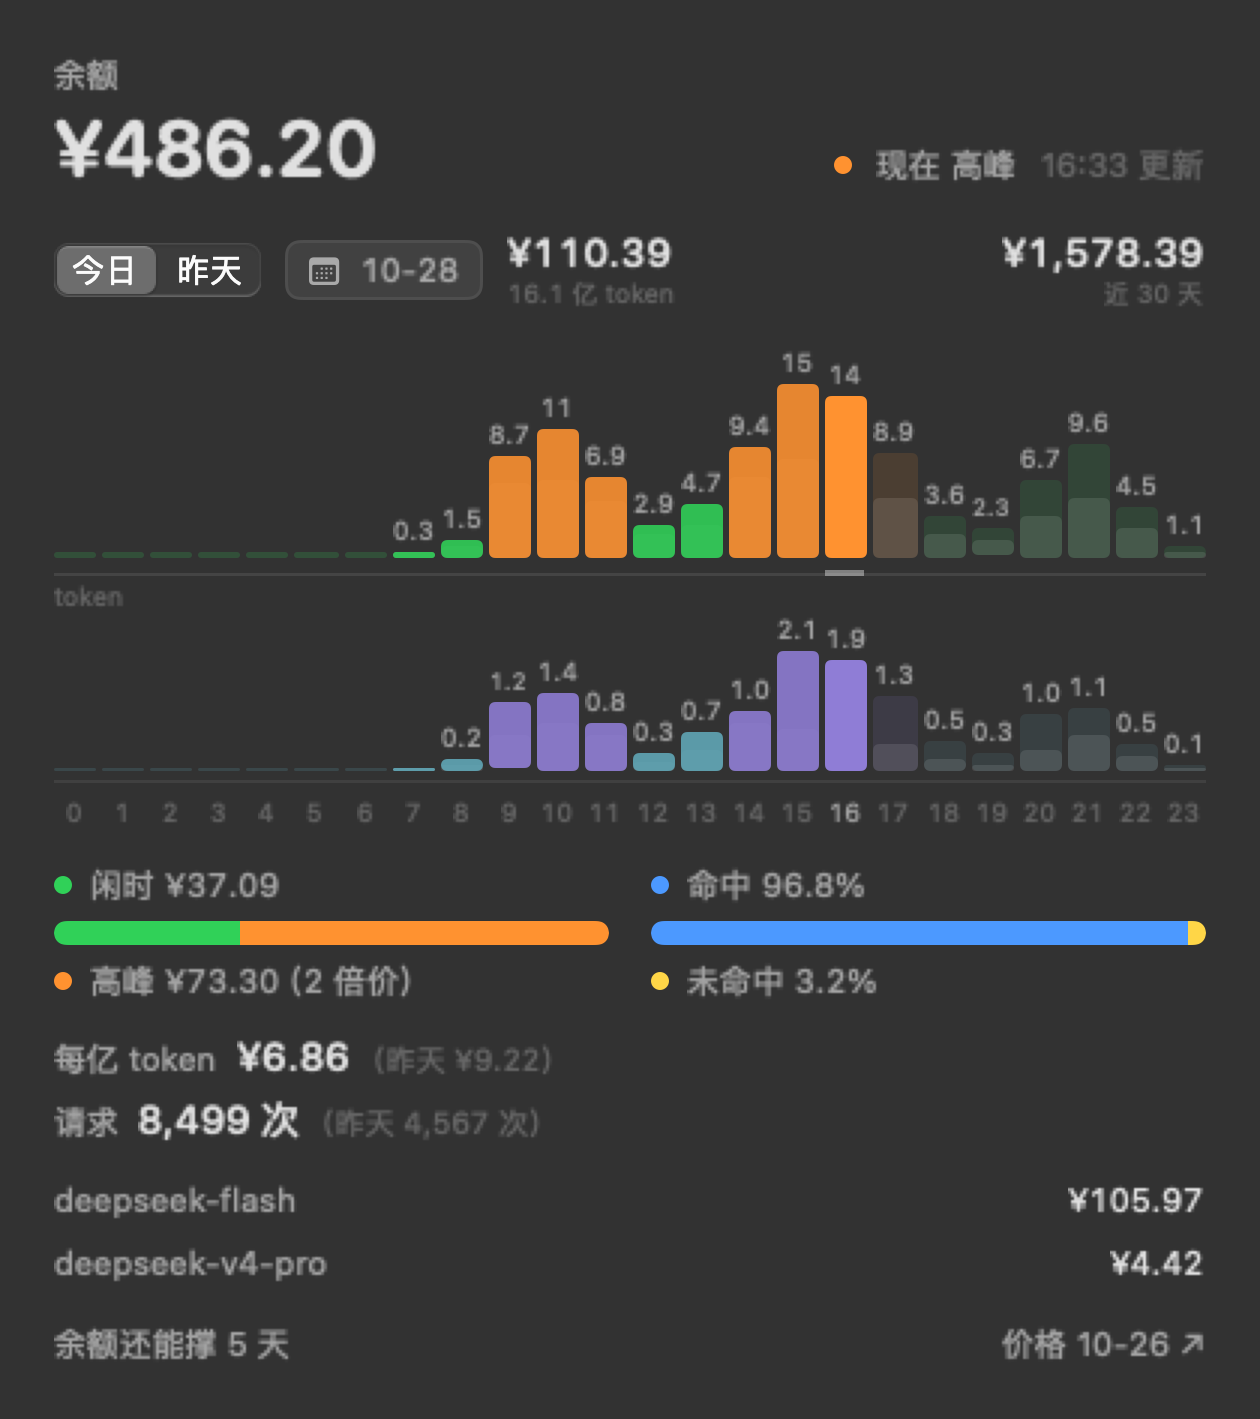
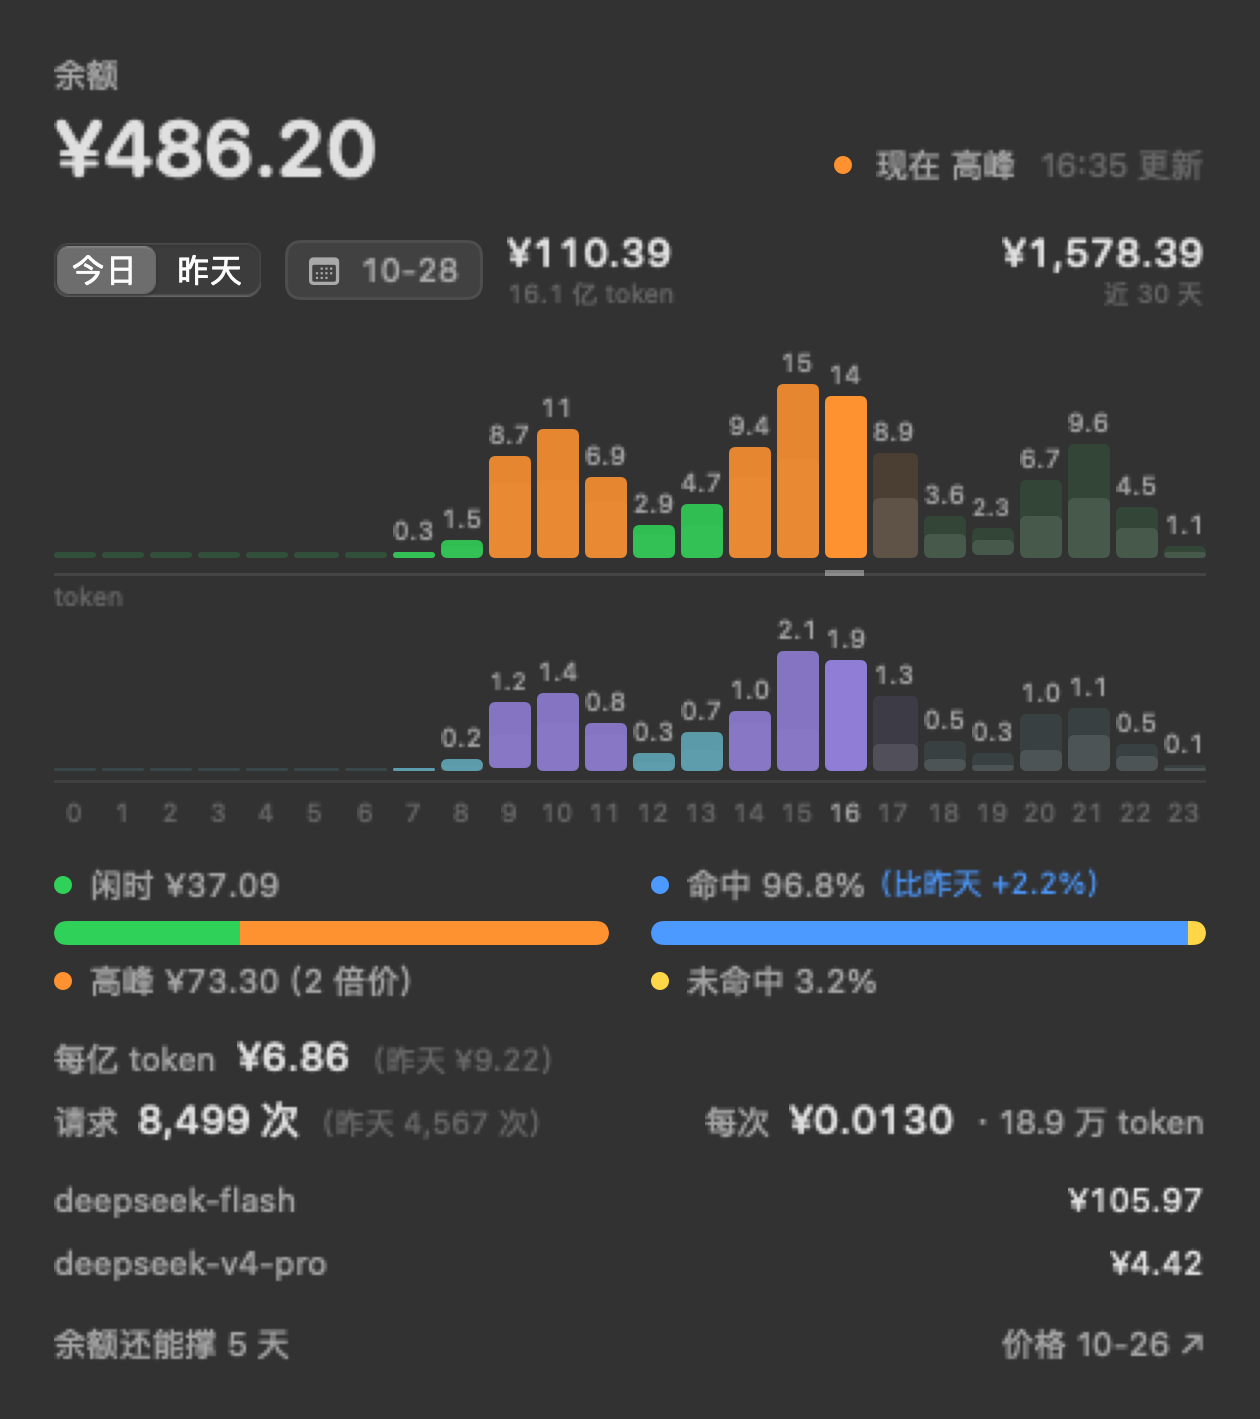
请求那一行补上每次的钱和每次的 token 量：请求数只说明次数，说明不了单价

Changed region(s): [[0.5571, 0.7752, 0.9595, 0.8062], [0.7119, 0.5891, 0.8667, 0.6512]]

diff --git a/Sources/DSMeter/L10n.swift b/Sources/DSMeter/L10n.swift
@@ -30,7 +30,7 @@ enum T {
     case setupTitle, setupBody, loginExpiredBody, setupBalanceOnly, loginStaysLocal
     case vsYesterday, vsPreviousDay, previousDay
     case runway, runwayNoData, priceLine
-    case hourChart, tokenLayer, unitPrice, unitPriceHelp, requestHelp, requests
+    case hourChart, tokenLayer, unitPrice, unitPriceHelp, requestHelp, requests, perRequest
 
     // 菜单
     case menuRefresh, menuSettings, menuLogin, menuUsage, menuPricing, menuQuit, menuAutoStart, statusTooltip
@@ -99,7 +99,8 @@ enum T {
         case .tokenLayer: return "token"
         case .unitPrice: return "每亿 token"
         case .requests: return "请求"
-        case .requestHelp: return "平台记的请求数：一次 API 调用算一次（工具每转一圈算一次，子代理跑的也算）。账单接口只给这个总数，拆不出哪几次是我自己问的。"
+        case .perRequest: return "每次"
+        case .requestHelp: return "平台记的请求数：一次 API 调用算一次（工具每转一圈算一次，子代理跑的也算），账单接口只给这个总数，拆不出哪几次是我自己问的。后面的「每次」= 那天的钱 ÷ 那天的请求数、那天的 token ÷ 那天的请求数。"
         case .unitPriceHelp: return "那天的花费 ÷ 那天的 token 量（命中 + 未命中 + 输出）× 1 亿。高峰时段长、缓存没命中，这个数就高。"
         case .menuRefresh: return "刷新"
         case .menuSettings: return "设置…"
@@ -209,7 +210,8 @@ enum T {
         case .tokenLayer: return "tokens"
         case .unitPrice: return "Per 100M tokens"
         case .requests: return "Requests"
-        case .requestHelp: return "Requests as the platform counts them: one per API call — every tool round and every subagent run. The billing API only gives this total; it cannot split out the calls I made myself."
+        case .perRequest: return "Each"
+        case .requestHelp: return "Requests as the platform counts them: one per API call — every tool round and every subagent run; the billing API only gives this total. “Each” is that day's spend ÷ requests, and that day's tokens ÷ requests."
         case .unitPriceHelp: return "The day's spend ÷ its tokens (cache hit + miss + output) × 100M. More peak hours or more cache misses push it up."
         case .menuRefresh: return "Refresh"
         case .menuSettings: return "Settings…"
@@ -313,6 +315,14 @@ enum L {
     static func requestCount(_ count: Int) -> String {
         let number = Fmt.count(count)
         return Lang.current == .zh ? "\(number) 次" : number
+    }
+
+    /// 一次请求过了多少 token："16.9 万 token" / "169K tokens"。单位跟 token 那一层同一套（万/亿、K/M）。
+    static func tokenSize(_ tokens: Int) -> String {
+        let (divisor, suffix) = tokenUnit(Double(tokens))
+        let number = trimDecimal(Double(tokens) / divisor)
+        let head = suffix.isEmpty ? number : (Lang.current == .zh ? "\(number) \(suffix)" : "\(number)\(suffix)")
+        return "\(head) \(T.tokenCount.s)"
     }
 
     /// 请求数后面那个对照：「（昨天 4,567 次）」/ "(yesterday 4,567)"。

diff --git a/Sources/DSMeter/MeterPanel.swift b/Sources/DSMeter/MeterPanel.swift
@@ -589,10 +589,14 @@ struct MeterPanel: View {
 
     // MARK: - 请求数
 
-    /// 那天平台记了多少次调用。一次 API 调用算一次（工具每转一圈、子代理跑的都在里面），
-    /// 所以它比「我打过多少句话」大一个量级，不能当提问数看。
+    /// 那天平台记了多少次调用，以及「一次多少钱、一次多大」。
+    /// 请求数含工具每一转和子代理跑的，所以它比「我打过多少句话」大一个量级。
+    ///
+    /// 右边的两个数不另起一行：它们跟左边的计数是同一个东西的三个面（次数 / 每次的钱 / 每次的量），
+    /// 这三个数乘除一下就互为换算，摆两行反而让人以为是两组不相干的数。
     private var requestsRow: some View {
         let count = dayLoaded && day.requests > 0 ? day.requests : nil
+        let per = perRequest
         return HStack(alignment: .firstTextBaseline, spacing: 6) {
             Text(T.requests.s)
                 .font(Style.body)
@@ -616,9 +620,27 @@ struct MeterPanel: View {
                     .monospacedDigit()
                     .foregroundStyle(.secondary)
             }
-            Spacer(minLength: 0)
+            Spacer(minLength: 8)
+            if let per {
+                Text(T.perRequest.s)
+                    .font(Style.body)
+                    .foregroundStyle(.secondary)
+                Text(Fmt.moneyFine(per.cost))
+                    .font(Style.value)
+                    .monospacedDigit()
+                Text("· \(L.tokenSize(per.tokens))")
+                    .font(Style.body)
+                    .foregroundStyle(.secondary)
+            }
         }
         .help(T.requestHelp.s)
+    }
+
+    /// 那天的钱 ÷ 请求数、token ÷ 请求数。两个接口只回来一份时（没请求、没钱）不给数。
+    private var perRequest: (cost: Double, tokens: Int)? {
+        guard dayLoaded, day.requests > 0 else { return nil }
+        guard day.money > 0 || day.tokenTotal > 0 else { return nil }
+        return (day.money / Double(day.requests), day.tokenTotal / day.requests)
     }
 
     // MARK: - 页脚

diff --git a/Sources/DSMeter/Format.swift b/Sources/DSMeter/Format.swift
@@ -21,6 +21,13 @@ enum Fmt {
         return "¥" + text
     }
 
+    /// 一次请求多少钱：几分钱的东西，两位小数会变成 ¥0.01，看不出变化。
+    /// 按量级给位：一元以上看两位，一角以上看三位，再小看四位。
+    static func moneyFine(_ value: Double) -> String {
+        let digits = value >= 1 ? 2 : (value >= 0.1 ? 3 : 4)
+        return "¥" + String(format: "%.\(digits)f", value)
+    }
+
     /// 柱子上的 token 数：一列才 14pt 宽，写不下「820万」这种带单位的数。
     /// 所以整张图共用一个单位（亿 / 万），单位写在图角上，柱子上只写裸数字。
     static func tokenUnit(_ top: Double) -> (divisor: Double, suffix: String) {
